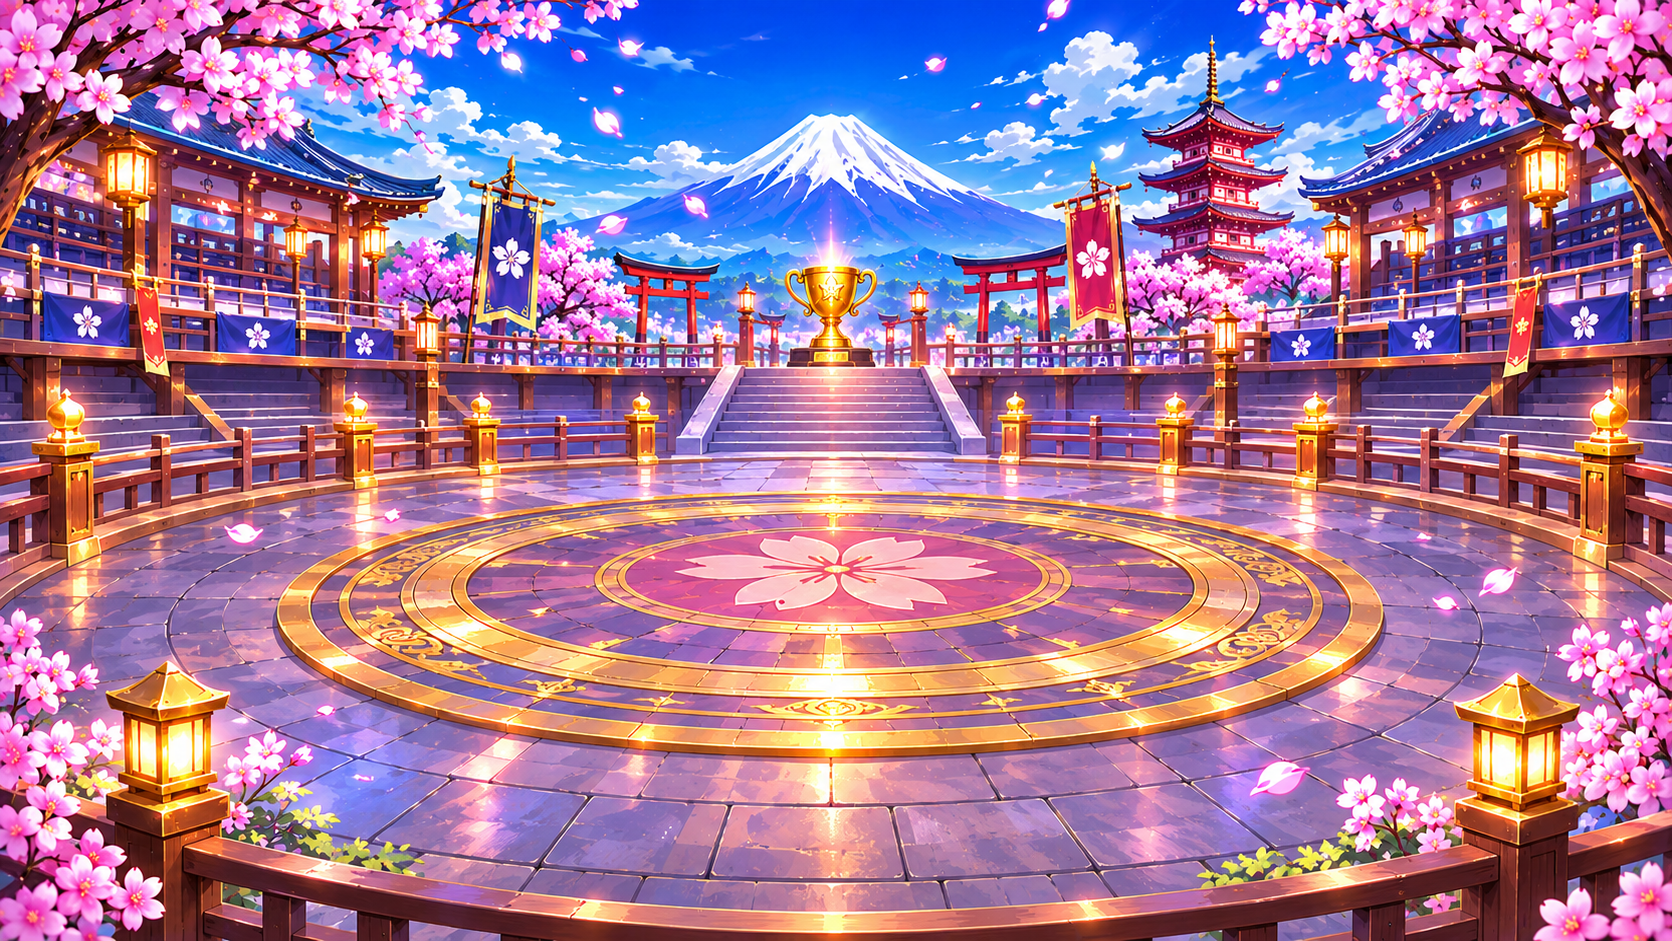
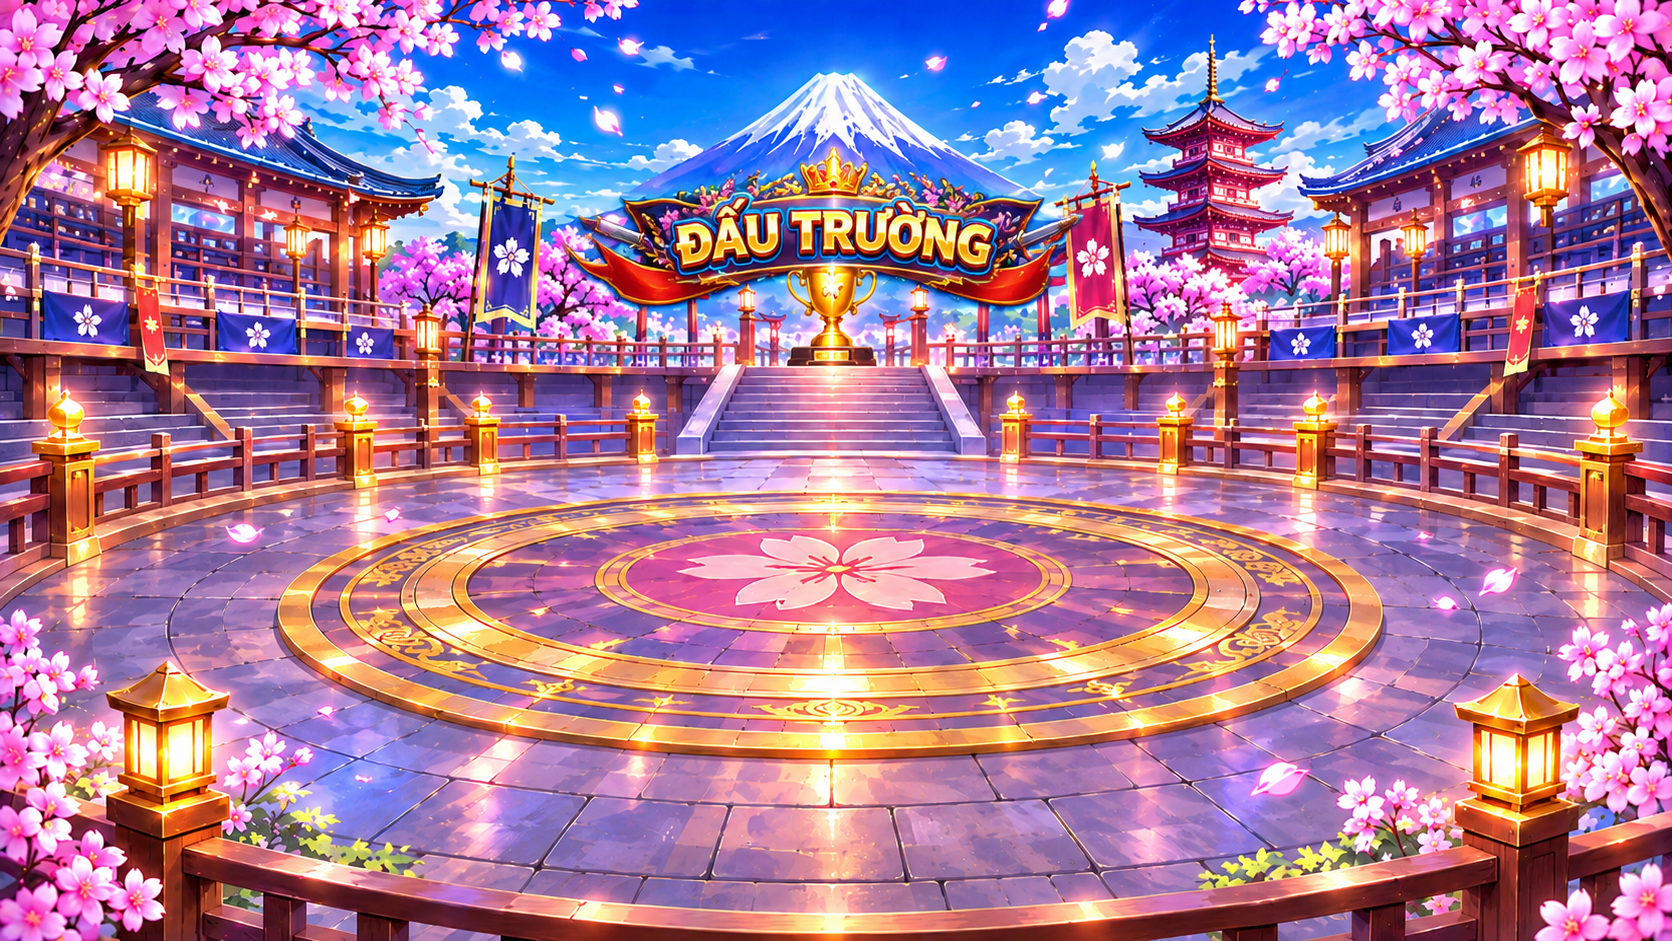
IKIGAI10-4

diff --git a/arena.css b/arena.css
@@ -69,3 +69,149 @@
 #roomScene .arena-ready-actions button{padding:5px 10px;border:1px solid #ffe1a0;border-radius:9px;background:linear-gradient(#1888cf,#07509a);color:#fff;font-size:10px;font-weight:900}
 #roomScene .arena-ready-actions button:last-child{background:linear-gradient(#6b7890,#35445e)}
 #roomScene .arena-ready-actions button:disabled{opacity:.45;cursor:not-allowed}
+
+
+/* 10.3.1 — compact controls; keep the arena and player avatars visible */
+#roomScene .arena-live-layout{
+  grid-template-columns:minmax(88px,12%) minmax(0,1fr) minmax(88px,12%);
+  gap:.8%;
+  inset:11% 1% 5%;
+}
+#roomScene .arena-chat-card,#roomScene .arena-menu-card{
+  padding:clamp(4px,.55vw,8px);
+  border-radius:12px;
+}
+#roomScene .arena-menu-card{gap:2px}
+#roomScene .arena-action{
+  gap:5px;
+  margin:3px 0;
+  min-height:0;
+  padding:clamp(4px,.45vw,7px);
+  border-radius:9px;
+  font-size:clamp(8px,.72vw,10px);
+}
+#roomScene .arena-action span{width:18px;font-size:clamp(12px,1.1vw,16px)}
+#roomScene .arena-chat-hint{margin:5px 0;font-size:clamp(8px,.7vw,10px)}
+#roomScene .arena-chat-open{padding:5px}
+#roomScene .arena-online-count{margin-top:5px;padding-top:4px;font-size:8px}
+#roomScene .arena-stage-center{padding:.5% 0 0;justify-content:space-around}
+#roomScene .arena-title{padding:4px 12px;border-radius:12px}
+#roomScene .arena-title>span{font-size:clamp(14px,1.5vw,22px)}
+#roomScene .arena-title b{font-size:clamp(15px,1.8vw,24px)}
+#roomScene .arena-peer-stage{
+  align-items:flex-end;
+  justify-content:center;
+  gap:clamp(10px,4vw,58px);
+  padding:2px 0;
+}
+#roomScene .arena-live-player{
+  position:relative;
+  display:flex;
+  flex-direction:column;
+  justify-content:flex-end;
+  max-width:25%;
+  overflow:visible;
+}
+#roomScene .arena-live-player img{
+  order:2;
+  width:clamp(72px,10vw,132px);
+  height:clamp(92px,22vh,190px);
+  object-fit:contain;
+  object-position:center bottom;
+}
+#roomScene .arena-live-player.arena-self img{
+  width:clamp(82px,12vw,150px);
+  height:clamp(105px,25vh,210px);
+}
+#roomScene .arena-player-overhead{
+  order:1;
+  position:relative;
+  z-index:3;
+  display:flex;
+  flex-direction:column;
+  align-items:center;
+  gap:2px;
+  max-width:min(180px,28vw);
+  margin-bottom:-2px;
+  text-align:center;
+  filter:drop-shadow(0 2px 3px #07152b);
+}
+#roomScene .arena-live-player .arena-player-name{
+  max-width:100%;
+  padding:2px 7px;
+  border-radius:9px;
+  border:1px solid #ffdc83;
+  background:rgba(5,28,65,.94);
+  color:#fff;
+  font-size:clamp(8px,.8vw,11px);
+  line-height:1.15;
+}
+#roomScene .arena-player-title{
+  max-width:100%;
+  padding:2px 6px;
+  border-radius:8px;
+  background:linear-gradient(90deg,#8b4d08,#d59b2e,#8b4d08);
+  border:1px solid #ffe3a0;
+  color:#fff8df;
+  font-size:clamp(7px,.68vw,9px);
+  font-weight:900;
+  line-height:1.15;
+  white-space:nowrap;
+  overflow:hidden;
+  text-overflow:ellipsis;
+}
+#roomScene .arena-player-overhead small{
+  margin:0;
+  color:#fff;
+  font-size:clamp(7px,.65vw,9px);
+}
+#roomScene .arena-queue-status{
+  width:min(74%,500px);
+  padding:4px 8px;
+  font-size:clamp(8px,.75vw,10px);
+  border-radius:9px;
+}
+#roomScene .arena-mode-row{
+  width:min(76%,560px);
+  gap:6px;
+  margin-top:4px;
+  align-self:center;
+}
+#roomScene .arena-mode-btn{
+  min-height:clamp(38px,6.5vh,58px);
+  padding:3px 5px;
+  gap:1px;
+  border-width:1px;
+  border-radius:11px;
+}
+#roomScene .arena-mode-btn>span{font-size:clamp(13px,1.25vw,18px)}
+#roomScene .arena-mode-btn b{font-size:clamp(9px,1vw,13px)}
+#roomScene .arena-mode-btn small{font-size:clamp(6px,.62vw,8px)}
+#roomScene .arena-footer{font-size:7px}
+@media(max-width:700px){
+ #roomScene .arena-live-layout{grid-template-columns:minmax(76px,11%) minmax(0,1fr) minmax(76px,11%);gap:.5%}
+ #roomScene .arena-chat-card,#roomScene .arena-menu-card{padding:4px;border-radius:8px}
+ #roomScene .arena-action{padding:4px 3px;margin:2px 0;font-size:8px;gap:3px}
+ #roomScene .arena-action span{width:14px;font-size:12px}
+ #roomScene .arena-mode-row{width:min(88%,520px)}
+ #roomScene .arena-mode-btn{min-height:36px}
+ #roomScene .arena-player-title{font-size:7px}
+}
+@media(orientation:landscape) and (max-height:500px){
+ #roomScene .arena-live-layout{inset:11% 1% 4%}
+ #roomScene .arena-topbar{height:8%;min-height:30px}
+ #roomScene .arena-menu-card .arena-action{padding:3px 4px;margin:2px 0}
+ #roomScene .arena-live-player img{height:clamp(65px,21vh,115px);width:clamp(55px,9vw,90px)}
+ #roomScene .arena-live-player.arena-self img{height:clamp(72px,23vh,130px)}
+ #roomScene .arena-player-overhead{gap:1px}
+ #roomScene .arena-mode-row{width:min(70%,480px)}
+ #roomScene .arena-mode-btn{min-height:34px}
+}
+@media(orientation:portrait) and (max-width:700px){
+ #roomScene .arena-live-layout{inset:9% 2% 4%;grid-template-columns:1fr 1fr;grid-template-rows:auto 1fr}
+ #roomScene .arena-chat-card{grid-column:1;grid-row:1}
+ #roomScene .arena-menu-card{grid-column:2;grid-row:1;display:grid;grid-template-columns:1fr 1fr}
+ #roomScene .arena-stage-center{grid-column:1/-1;grid-row:2}
+ #roomScene .arena-peer-stage{min-height:0}
+ #roomScene .arena-mode-row{width:90%}
+}

diff --git a/index.html b/index.html
@@ -1,4 +1,4 @@
-<!doctype html><html lang="vi"><head><meta charset="utf-8"><meta name="viewport" content="width=device-width,initial-scale=1,viewport-fit=cover"><meta name="theme-color" content="#17313b"><title>IKIGAI WORLD 10.3.0 – Live Arena Lobby</title><link rel="stylesheet" href="style.css?v=10.1.0-horizontal-hud"><link rel="stylesheet" href="classroom.css?v=10.1.1-button-hitbox-calibration"><script src="https://cdn.jsdelivr.net/npm/@supabase/supabase-js@2"></script><link rel="stylesheet" href="arena.css?v=10.3.0-live-arena"></head><body>
+<!doctype html><html lang="vi"><head><meta charset="utf-8"><meta name="viewport" content="width=device-width,initial-scale=1,viewport-fit=cover"><meta name="theme-color" content="#17313b"><title>IKIGAI WORLD 10.3.0 – Live Arena Lobby</title><link rel="stylesheet" href="style.css?v=10.1.0-horizontal-hud"><link rel="stylesheet" href="classroom.css?v=10.1.1-button-hitbox-calibration"><script src="https://cdn.jsdelivr.net/npm/@supabase/supabase-js@2"></script><link rel="stylesheet" href="arena.css?v=10.3.1-compact-overhead"></head><body>
 <main id="game">
 <section id="mapScene" class="map-scene">
  <div class="map-world-stage">
@@ -42,4 +42,4 @@
  <div class="login-tabs"><button class="selected" data-tab="student">🎒 Học viên</button><button data-tab="teacher">👑 Giáo viên</button></div>
  <div id="studentForm"><label>Tên hiển thị trong game</label><input id="studentName" maxlength="24" placeholder="Ví dụ: Minh Anh"><label>Email tài khoản</label><input id="studentEmail" type="email" autocomplete="username" placeholder="email của bạn"><label>Mật khẩu</label><input id="studentPassword" type="password" autocomplete="current-password" placeholder="Tối thiểu 6 ký tự"><div class="gender-pick"><button class="selected" data-gender="male">Nam ♂</button><button data-gender="female">Nữ ♀</button></div><div class="avatar-pick"><button id="avatarPrev">‹</button><img id="avatarPreview" src="assets/characters/male_school.png"><button id="avatarNext">›</button></div><div class="login-actions"><button class="gold" id="studentSignIn">ĐĂNG NHẬP</button><button class="secondary" id="studentSignUp">TẠO TÀI KHOẢN</button></div><button class="guest" id="guestEnter">Vào thử không cần tài khoản</button></div>
  <div id="teacherForm" hidden><label>Email giáo viên</label><input id="teacherEmail" type="email" autocomplete="username"><label>Mật khẩu</label><input id="teacherPassword" type="password" autocomplete="current-password"><button class="gold full" id="teacherSignIn">ĐĂNG NHẬP GIÁO VIÊN</button><p class="small-note">Tài khoản giáo viên cần được cấp role teacher trong Supabase.</p></div><p id="loginStatus" role="status"></p></div></div>
-</main><button id="musicToggle" class="music-toggle" type="button" aria-pressed="true" aria-label="Tắt nhạc nền"><span class="music-toggle-icon">♫</span><span class="music-toggle-label">NHẠC: BẬT</span></button><script src="app.js?v=10.3.0-live-arena"></script><script src="ambient-effects.js?v=10.1.0-horizontal-hud"></script><script src="audio-manager.js?v=10.2.0-arena-lobby"></script></body></html>
+</main><button id="musicToggle" class="music-toggle" type="button" aria-pressed="true" aria-label="Tắt nhạc nền"><span class="music-toggle-icon">♫</span><span class="music-toggle-label">NHẠC: BẬT</span></button><script src="app.js?v=10.3.1-compact-overhead"></script><script src="ambient-effects.js?v=10.1.0-horizontal-hud"></script><script src="audio-manager.js?v=10.2.0-arena-lobby"></script></body></html>

diff --git a/app.js b/app.js
@@ -197,11 +197,18 @@ function renderArenaLobbyPeers(){
  const self={user_id:user?.id,name:nickname,role,gender,avatar,xp};
  const peers=Object.values(people).filter(p=>p.user_id!==user?.id&&p.scene==='room'&&p.place==='arena');
  const all=[self,...peers].slice(0,5);
- host.innerHTML=all.map((p,i)=>`<div class="arena-live-player ${i===0?'arena-self':'arena-peer'}">
-  <img src="${p.role==='teacher'?'assets/characters/teacher_lee.png':asset(p.gender||'male',p.avatar||0)}" alt="">
-  <span class="arena-player-name">${safe(p.name||'Học viên')}</span>
-  <small>Lv.${Math.floor(Number(p.xp||0)/100)+1}${i===0?' · Bạn':' · Trực tuyến'}</small>
- </div>`).join('');
+ host.innerHTML=all.map((p,i)=>{
+  const level=rankLevel(p.xp||0),rank=classRanks[level-1]||classRanks[0];
+  const avatarSrc=p.role==='teacher'?'assets/characters/teacher_lee.png':asset(p.gender||'male',p.avatar||0);
+  return `<div class="arena-live-player ${i===0?'arena-self':'arena-peer'}">
+   <div class="arena-player-overhead">
+    <span class="arena-player-name">${safe(p.name||'Học viên')}</span>
+    <span class="arena-player-title"><b>${rank.icon}</b> ${safe(rank.name)}</span>
+    <small>Lv.${level}${i===0?' · Bạn':''}</small>
+   </div>
+   <img src="${avatarSrc}" alt="${safe(p.name||'Nhân vật')}" draggable="false">
+  </div>`;
+ }).join('');
  const count=$('arenaOnlineCount');if(count)count.textContent=`${peers.length+1} người trong sảnh`;
  const state=$('arenaConnectionState');if(state)state.textContent=channel&&joined?'● Đã kết nối máy chủ':'○ Chế độ ngoại tuyến';
 }
